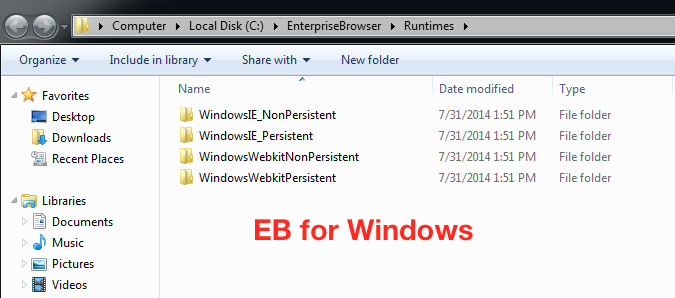
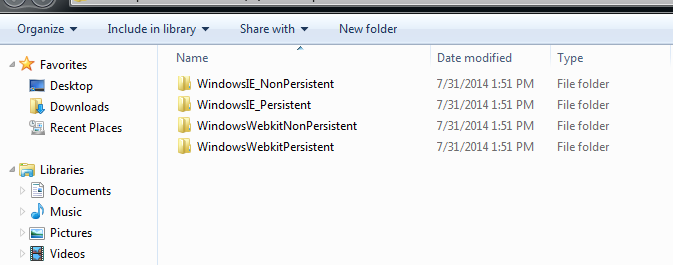
[TUT-24630] EB 1.8 validation updates, per eng.

diff --git a/src/enterprise-browser/1-8/guide/setup/index.md b/src/enterprise-browser/1-8/guide/setup/index.md
@@ -268,38 +268,49 @@ Enterprise Browser runtimes can be individually pushed to devices from Windows o
 
 Enterprise Browser also can be mass-deployed using Zebra [StageNow](../../../../stagenow) or a compatible MDM system. [See the Mass Deployment section](#massdeployment). 
 
-**&#49;. Locate the Enterprise Browser runtime files** on the installation host: 
+-----
+
+**To manually push an EB app to a device**:
+
+**Locate the Enterprise Browser runtime files** on the installation host. This process varies from Windows and Mac OS X and hosts. Both are exaplained below. Note the separate folders for different target platforms.  
 
 #### Windows systems
 Go to **Start Menu -> Enterprise Browser -> Resources ->Enterprise Browser Runtimes**. 
-<img alt="" style="height:350px" src="../../images/getting-started/setup/EB_resources_menu.jpg"/>
+<img alt="" style="height:350px" src="../../images/getting-started/setup/18_eb_resources_menu.png"/>
 <br>
-On Windows, this brings up a window similar to the image below: 
+In Enterprise Browser for Windows, the "Runtimes" folder looks similar to the image below. The runtimes folder of EB for Android (not shown) contains just a single `.apk` file. 
 <img alt="" style="height:350px" src="../../images/getting-started/setup/setup-enterprise-browser-runtimes.png"/>
+<br>
+
+-----
 
 #### Mac OS X systems
-Open **Applications -> Enterprise Browser -> Runtimes**. The Runtimes folder on a Mac looks like the image below: 
+Open **Applications -> Enterprise Browser for [target platform]-> Runtimes**. The runtimes folder on a Mac looks similar to the image below: 
 <img alt="" style="height:350px" src="../../images/getting-started/setup/18_EB_Mac_runtimes.png"/>
 <br>
 
+-----
+
 #### The remaining steps apply to both platforms
 
-**&#50;. Drag-copy the desired runtime** to the root directory of the device. 
+&#49;. After locating the desired runtime using the procedures above, **drag-copy the runtime** to the root directory of the device. 
 
-**&#51;. For versions prior to Enterprise Browser 1.5, skip to Step 4**. On Enterprise Browser 1.5 and higher **for Android**, a pre-configured `Config.xml` file (and optionally a `keycodemapping.xml` file) can be copied to the device at `/<internal_mem_root_dir>/EnterpriseBrowser/` at this time (create the directory, if necessary). 
+**&#50;. For versions prior to Enterprise Browser 1.5, skip to Step 5**. On Enterprise Browser 1.5 and higher **for Android**, a pre-configured `Config.xml` file (and optionally a `keycodemapping.xml` file) can be copied to the device at `/<internal_mem_root_dir>/EnterpriseBrowser/` at this time (create the directory, if necessary). 
 
-**&#52;. From the device, use a file explorer to locate and execute the runtime**. When Enterprise Browser 1.5 for Android is launched for the first time after installation, it performs the following actions on the device:
+**&#51;. From the device, use a file explorer to locate and execute the runtime**. When Enterprise Browser 1.5 (and higher) for Android is launched for the first time after installation, it performs the following actions on the device:
 
 * Creates the directory `/Android/data/com.symbol.EnterpriseBrowser/`
-* Stores the Enterprise Browser executable in that new directory
-* Spawns a `Config.xml` with default settings in the directory
-* Checks `/<internal_mem_root_dir>/EnterpriseBrowser/` directory and copies `Config.xml` and `keycodemapping.xml` files (if present) to the new directory, overwriting any existing file(s) of the same name
+* Stores the Enterprise Browser executable in the new directory
+* Spawns a `Config.xml` file with default settings in the directory
+* Checks the `/<internal_mem_root_dir>/EnterpriseBrowser/` directory and copies `Config.xml` and `keycodemapping.xml` files (if present) to the new directory, overwriting any existing file(s) of the same name
 * Copies those same config file(s) to `/<internal_mem_root_dir>/EnterpriseBrowser/backup/` and deletes the originals
 * Activates the settings of the new config file(s) in `/Android/data/com.symbol.EnterpriseBrowser/`
 
-**&#53;. Reboot the device to complete the installation**. On persistent installations, a cold boot/cleanPS is required to activate the runtime.
+**&#52;. Reboot the device to complete the installation**. On persistent installations, a cold boot/cleanPS is required to activate the runtime.
 
 > **Note: Directory names are case sensitive**. 
+
+-----
 
 ### Update EB Settings
 **Applies only to Enterprise Browser 1.5 (and higher) for Android**. After Enterprise Browser is launched for the first time following installation, subsequent launches still check the `/<internal_mem_root_dir>/EnterpriseBrowser/` directory for new versions of the `Config.xml` and/or `keycodemapping.xml` files for processing as described above. 
@@ -315,11 +326,13 @@ The Enterprise Browser runtimes and configuration and licensing files can be dep
 
 #### Windows systems
 Go to **Start Menu -> Enterprise Browser -> Resources ->Enterprise Browser Runtimes**. 
-<img alt="" style="height:350px" src="../../images/getting-started/setup/EB_resources_menu.jpg"/>
+<img alt="" style="height:350px" src="../../images/getting-started/setup/18_eb_resources_menu.png"/>
 <br>
 On Windows, this brings up a window similar to the image below: 
 <img alt="" style="height:350px" src="../../images/getting-started/setup/setup-enterprise-browser-runtimes.png"/>
 <br>
+
+-----
 
 #### Mac OS X systems
 Open **Applications -> Enterprise Browser -> Runtimes**. The Runtimes folder on a Mac looks like the image below: 
